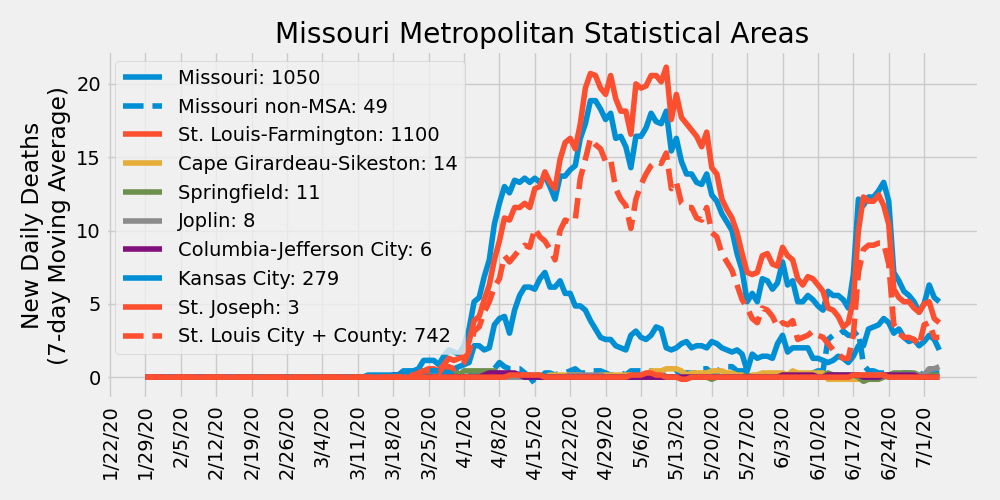
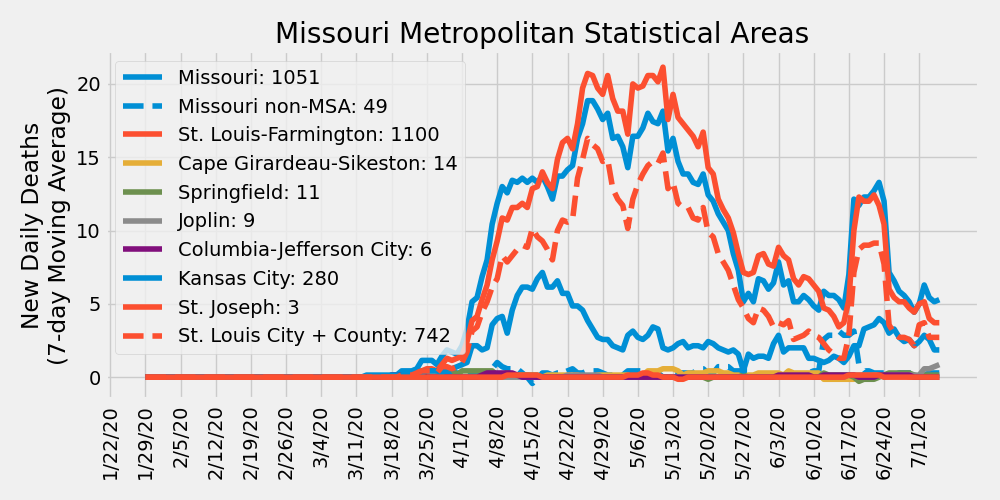
update 7/6/2020

diff --git a/ajvogt-analysis/missouri_analysis.md b/ajvogt-analysis/missouri_analysis.md
@@ -1,6 +1,6 @@
 # COVID-19 Missouri Statistics & Regional Breakdowns
 Author: Adam J. Vogt  
-Updated: 07/05/2020  
+Updated: 07/06/2020  
 Source: [COVID-19 Data Repository by the Center for Systems Science and Engineering (CSSE) at Johns Hopkins University](https://github.com/CSSEGISandData/COVID-19)  
 Source Code: `/ajvogt-analysis/mo_analysis_script.py`  
 Release Notes: [release_notes.md](https://github.com/ajvogt/COVID-19/blob/master/ajvogt-analysis/release_notes.md)
@@ -30,75 +30,75 @@ Legend shows cumulative confirmed cases
 | St. Louis-Farmington | Missouri | Lincoln | 98 | 1 |
 | St. Louis-Farmington | Missouri | Warren | 48 | 0 |
 | St. Louis-Farmington | Missouri | Franklin | 217 | 18 |
-| St. Louis-Farmington | Missouri | Jefferson | 503 | 22 |
-| St. Louis-Farmington | Missouri | St. Charles | 1117 | 74 |
-| St. Louis-Farmington | Missouri | St. Louis | 6837 | 584 |
-| St. Louis-Farmington | Missouri | St. Louis City | 2580 | 158 |
-| St. Louis-Farmington | Missouri | St. Francois | 151 | 2 |
-| St. Louis-Farmington | Illinois | Monroe | 129 | 13 |
-| St. Louis-Farmington | Illinois | St. Clair | 1988 | 137 |
-| St. Louis-Farmington | Illinois | Madison | 1007 | 69 |
-| St. Louis-Farmington | Illinois | Macoupin | 55 | 3 |
+| St. Louis-Farmington | Missouri | Jefferson | 502 | 22 |
+| St. Louis-Farmington | Missouri | St. Charles | 1122 | 74 |
+| St. Louis-Farmington | Missouri | St. Louis | 6887 | 584 |
+| St. Louis-Farmington | Missouri | St. Louis City | 2587 | 158 |
+| St. Louis-Farmington | Missouri | St. Francois | 152 | 2 |
+| St. Louis-Farmington | Illinois | Monroe | 130 | 13 |
+| St. Louis-Farmington | Illinois | St. Clair | 2017 | 137 |
+| St. Louis-Farmington | Illinois | Madison | 1036 | 69 |
+| St. Louis-Farmington | Illinois | Macoupin | 58 | 3 |
 | St. Louis-Farmington | Illinois | Jersey | 35 | 1 |
-| St. Louis-Farmington | Illinois | Clinton | 241 | 17 |
+| St. Louis-Farmington | Illinois | Clinton | 242 | 17 |
 | St. Louis-Farmington | Illinois | Calhoun | 1 | 0 |
 | St. Louis-Farmington | Illinois | Bond | 16 | 1 |
-| Cape Girardeau-Sikeston | Missouri | Cape Girardeau | 210 | 3 |
+| Cape Girardeau-Sikeston | Missouri | Cape Girardeau | 214 | 3 |
 | Cape Girardeau-Sikeston | Missouri | Bollinger | 14 | 0 |
 | Cape Girardeau-Sikeston | Illinois | Alexander | 22 | 0 |
-| Cape Girardeau-Sikeston | Missouri | Scott | 173 | 11 |
-| Springfield | Missouri | Greene | 317 | 8 |
-| Springfield | Missouri | Christian | 47 | 1 |
-| Springfield | Missouri | Webster | 39 | 1 |
+| Cape Girardeau-Sikeston | Missouri | Scott | 181 | 11 |
+| Springfield | Missouri | Greene | 328 | 8 |
+| Springfield | Missouri | Christian | 48 | 1 |
+| Springfield | Missouri | Webster | 42 | 1 |
 | Springfield | Missouri | Polk | 15 | 0 |
 | Springfield | Missouri | Dallas | 14 | 1 |
-| Joplin | Missouri | Jasper | 740 | 6 |
-| Joplin | Missouri | Newton | 457 | 2 |
+| Joplin | Missouri | Jasper | 754 | 7 |
+| Joplin | Missouri | Newton | 467 | 2 |
 | Columbia-Jefferson City | Missouri | Howard | 5 | 0 |
-| Columbia-Jefferson City | Missouri | Boone | 410 | 2 |
+| Columbia-Jefferson City | Missouri | Boone | 418 | 2 |
 | Columbia-Jefferson City | Missouri | Cooper | 20 | 0 |
-| Columbia-Jefferson City | Missouri | Moniteau | 55 | 1 |
-| Columbia-Jefferson City | Missouri | Cole | 82 | 2 |
-| Columbia-Jefferson City | Missouri | Callaway | 56 | 1 |
+| Columbia-Jefferson City | Missouri | Moniteau | 57 | 1 |
+| Columbia-Jefferson City | Missouri | Cole | 84 | 2 |
+| Columbia-Jefferson City | Missouri | Callaway | 57 | 1 |
 | Columbia-Jefferson City | Missouri | Osage | 9 | 0 |
-| Kansas City | Missouri | Kansas City | 2641 | 31 |
-| Kansas City | Missouri | Jackson | 1318 | 40 |
-| Kansas City | Missouri | Clay | 493 | 11 |
-| Kansas City | Missouri | Cass | 159 | 8 |
+| Kansas City | Missouri | Kansas City | 2696 | 31 |
+| Kansas City | Missouri | Jackson | 1329 | 40 |
+| Kansas City | Missouri | Clay | 500 | 11 |
+| Kansas City | Missouri | Cass | 161 | 8 |
 | Kansas City | Missouri | Platte | 130 | 6 |
-| Kansas City | Missouri | Lafayette | 92 | 2 |
+| Kansas City | Missouri | Lafayette | 93 | 2 |
 | Kansas City | Missouri | Ray | 27 | 0 |
 | Kansas City | Missouri | Clinton | 29 | 0 |
 | Kansas City | Missouri | Bates | 12 | 1 |
 | Kansas City | Missouri | Caldwell | 13 | 0 |
-| Kansas City | Kansas | Johnson | 2111 | 88 |
-| Kansas City | Kansas | Wyandotte | 2541 | 85 |
+| Kansas City | Kansas | Johnson | 2205 | 89 |
+| Kansas City | Kansas | Wyandotte | 2571 | 85 |
 | Kansas City | Kansas | Leavenworth | 1181 | 7 |
 | Kansas City | Kansas | Miami | 35 | 0 |
 | Kansas City | Kansas | Linn | 15 | 0 |
 | St. Joseph | Missouri | Andrew | 55 | 0 |
-| St. Joseph | Missouri | Buchanan | 883 | 3 |
+| St. Joseph | Missouri | Buchanan | 884 | 3 |
 | St. Joseph | Missouri | DeKalb | 14 | 0 |
 | St. Joseph | Kansas | Doniphan | 26 | 0 |
 | Missouri non-MSA | Missouri | Adair |  93 | 0 |
 | Missouri non-MSA | Missouri | Atchison |  5 | 0 |
 | Missouri non-MSA | Missouri | Audrain |  139 | 1 |
-| Missouri non-MSA | Missouri | Barry |  74 | 0 |
+| Missouri non-MSA | Missouri | Barry |  72 | 0 |
 | Missouri non-MSA | Missouri | Barton |  28 | 0 |
 | Missouri non-MSA | Missouri | Benton |  18 | 0 |
 | Missouri non-MSA | Missouri | Butler |  108 | 0 |
-| Missouri non-MSA | Missouri | Camden |  69 | 1 |
+| Missouri non-MSA | Missouri | Camden |  70 | 1 |
 | Missouri non-MSA | Missouri | Carroll |  16 | 0 |
 | Missouri non-MSA | Missouri | Carter |  6 | 1 |
 | Missouri non-MSA | Missouri | Cedar |  11 | 0 |
 | Missouri non-MSA | Missouri | Chariton |  6 | 0 |
 | Missouri non-MSA | Missouri | Clark |  2 | 0 |
-| Missouri non-MSA | Missouri | Crawford |  16 | 0 |
+| Missouri non-MSA | Missouri | Crawford |  17 | 0 |
 | Missouri non-MSA | Missouri | Dade |  1 | 0 |
 | Missouri non-MSA | Missouri | Daviess |  9 | 0 |
 | Missouri non-MSA | Missouri | Dent |  4 | 0 |
 | Missouri non-MSA | Missouri | Douglas |  6 | 0 |
-| Missouri non-MSA | Missouri | Dunklin |  109 | 3 |
+| Missouri non-MSA | Missouri | Dunklin |  110 | 3 |
 | Missouri non-MSA | Missouri | Gasconade |  12 | 0 |
 | Missouri non-MSA | Missouri | Gentry |  58 | 9 |
 | Missouri non-MSA | Missouri | Grundy |  20 | 0 |
@@ -110,10 +110,10 @@ Legend shows cumulative confirmed cases
 | Missouri non-MSA | Missouri | Iron |  3 | 0 |
 | Missouri non-MSA | Missouri | Knox |  2 | 0 |
 | Missouri non-MSA | Missouri | Laclede |  40 | 0 |
-| Missouri non-MSA | Missouri | Lawrence |  41 | 1 |
-| Missouri non-MSA | Missouri | Lewis |  7 | 1 |
+| Missouri non-MSA | Missouri | Lawrence |  45 | 1 |
+| Missouri non-MSA | Missouri | Lewis |  8 | 1 |
 | Missouri non-MSA | Missouri | Livingston |  16 | 0 |
-| Missouri non-MSA | Missouri | McDonald |  605 | 1 |
+| Missouri non-MSA | Missouri | McDonald |  612 | 1 |
 | Missouri non-MSA | Missouri | Macon |  8 | 0 |
 | Missouri non-MSA | Missouri | Maries |  6 | 0 |
 | Missouri non-MSA | Missouri | Marion |  25 | 0 |
@@ -127,9 +127,9 @@ Legend shows cumulative confirmed cases
 | Missouri non-MSA | Missouri | Oregon |  8 | 0 |
 | Missouri non-MSA | Missouri | Ozark |  2 | 0 |
 | Missouri non-MSA | Missouri | Pemiscot |  111 | 6 |
-| Missouri non-MSA | Missouri | Perry |  149 | 0 |
-| Missouri non-MSA | Missouri | Pettis |  128 | 1 |
-| Missouri non-MSA | Missouri | Phelps |  45 | 0 |
+| Missouri non-MSA | Missouri | Perry |  151 | 0 |
+| Missouri non-MSA | Missouri | Pettis |  134 | 1 |
+| Missouri non-MSA | Missouri | Phelps |  46 | 0 |
 | Missouri non-MSA | Missouri | Pike |  36 | 1 |
 | Missouri non-MSA | Missouri | Pulaski |  128 | 1 |
 | Missouri non-MSA | Missouri | Putnam |  3 | 0 |
@@ -141,15 +141,15 @@ Legend shows cumulative confirmed cases
 | Missouri non-MSA | Missouri | Saline |  284 | 4 |
 | Missouri non-MSA | Missouri | Schuyler |  5 | 0 |
 | Missouri non-MSA | Missouri | Scotland |  11 | 1 |
-| Missouri non-MSA | Missouri | Shannon |  17 | 0 |
+| Missouri non-MSA | Missouri | Shannon |  18 | 0 |
 | Missouri non-MSA | Missouri | Shelby |  4 | 0 |
 | Missouri non-MSA | Missouri | Stoddard |  142 | 8 |
 | Missouri non-MSA | Missouri | Stone |  20 | 0 |
 | Missouri non-MSA | Missouri | Sullivan |  115 | 0 |
-| Missouri non-MSA | Missouri | Taney |  83 | 2 |
-| Missouri non-MSA | Missouri | Texas |  6 | 0 |
+| Missouri non-MSA | Missouri | Taney |  84 | 2 |
+| Missouri non-MSA | Missouri | Texas |  7 | 0 |
 | Missouri non-MSA | Missouri | Vernon |  27 | 1 |
 | Missouri non-MSA | Missouri | Washington |  25 | 1 |
 | Missouri non-MSA | Missouri | Wayne |  4 | 0 |
 | Missouri non-MSA | Missouri | Worth |  4 | 0 |
-| Missouri non-MSA | Missouri | Wright |  22 | 0 |
+| Missouri non-MSA | Missouri | Wright |  26 | 0 |
